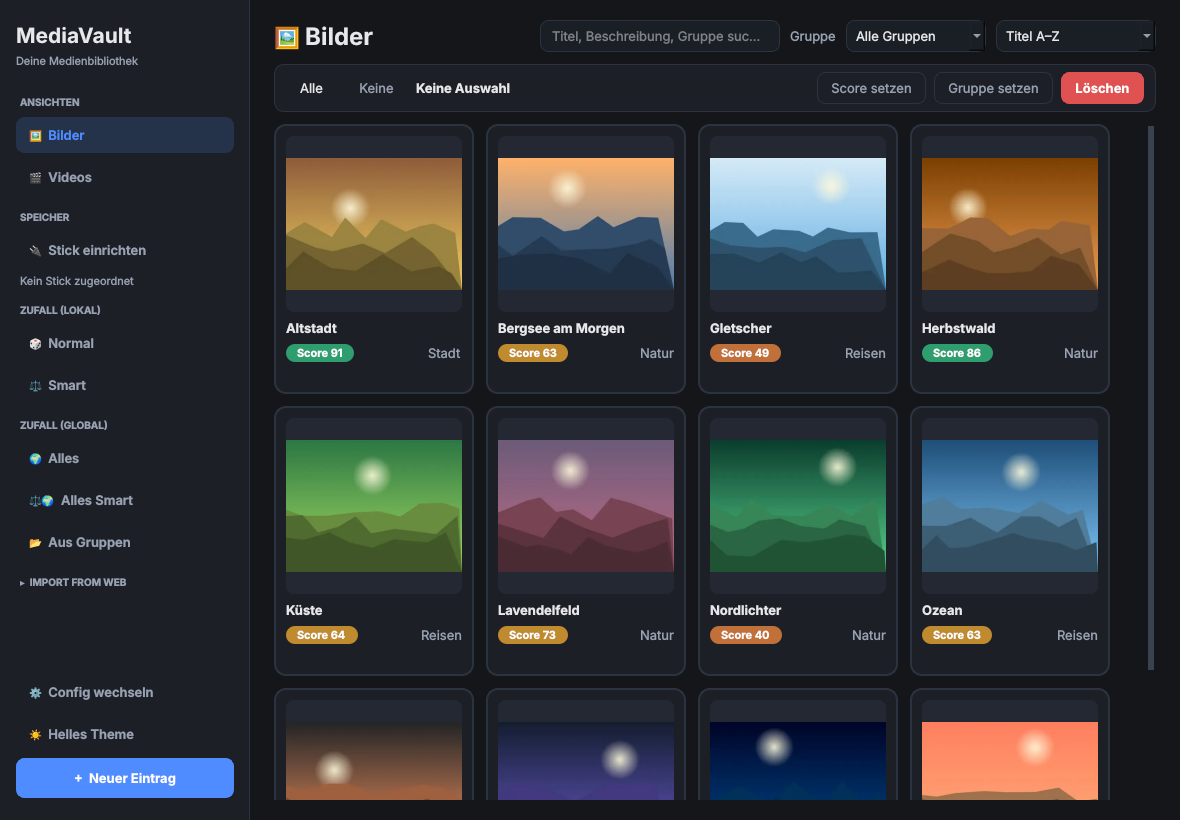
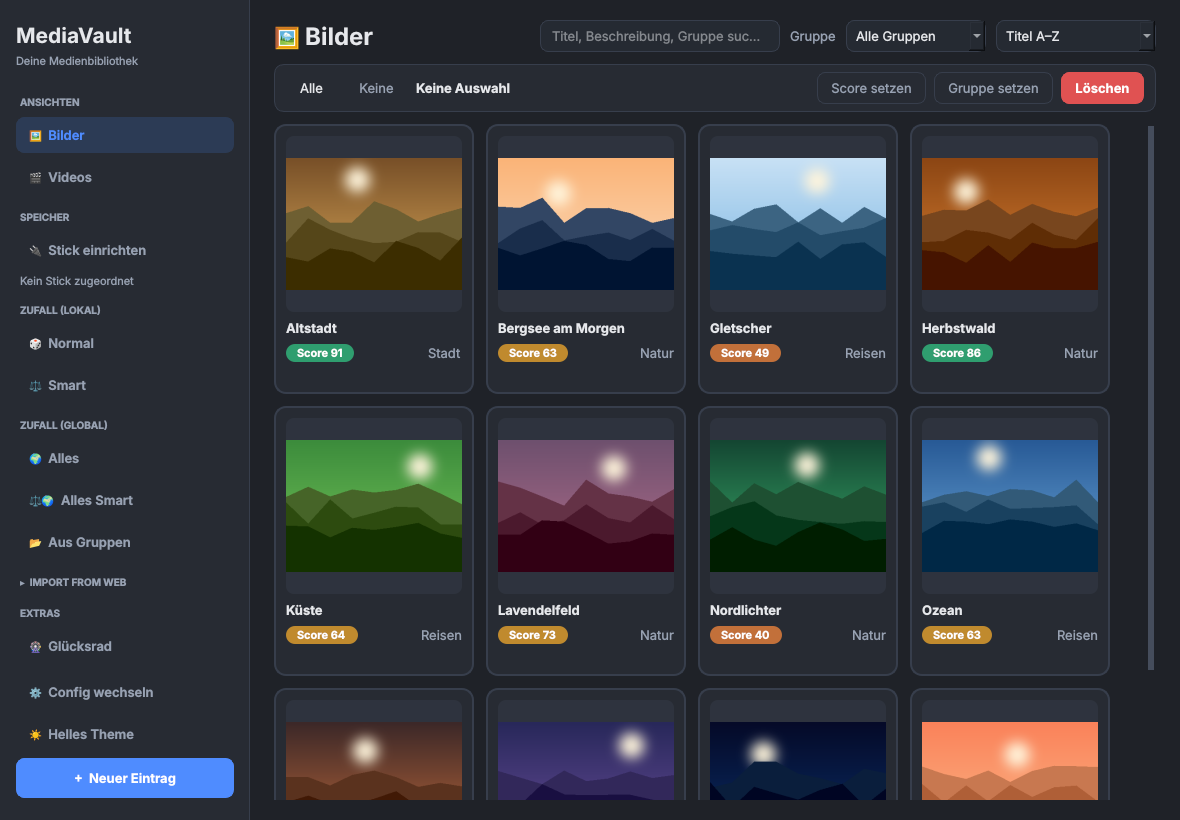
Sidebar wieder heller als die Hauptfläche, README-Screenshot aktualisiert
Sidebar nutzt wieder die Flächenfarbe (surface) wie im alten
README-Bild; WA_StyledBackground bleibt, damit sie gemalt wird.
Neuer Screenshot zeigt das hellere Dark-Theme und das Glücksrad.

Claude-Session: https://claude.ai/code/session_01V3p6qUPYyEA5Zf4tXi4khQ

diff --git a/mediavault/gui/theme.py b/mediavault/gui/theme.py
@@ -16,7 +16,6 @@ FONT_FAMILIES = ("Segoe UI", "Noto Sans", "Ubuntu", "Cantarell", "DejaVu Sans")
 PALETTES: dict[str, dict[str, str]] = {
     "dark": {
         "bg": "#1f2228",
-        "sidebar_bg": "#16181c",
         "surface": "#272b33",
         "surface_alt": "#2e333e",
         "hover": "#363d4b",
@@ -42,7 +41,6 @@ PALETTES: dict[str, dict[str, str]] = {
     },
     "light": {
         "bg": "#f4f6fa",
-        "sidebar_bg": "#f4f6fa",
         "surface": "#ffffff",
         "surface_alt": "#eef1f6",
         "hover": "#e8ecf2",
@@ -97,7 +95,7 @@ QWidget {
 }
 
 QWidget#Sidebar {
-    background-color: $sidebar_bg;
+    background-color: $surface;
     border-right: 1px solid $border;
 }
 

diff --git a/README.md b/README.md
@@ -2,7 +2,7 @@
 
 Ein Desktop-Tool zum Verwalten, Bewerten und Durchstöbern von Medien (Bilder und Videos) – mit Bewertungssystem, Zufallsauswahl und Batch-Funktionen.
 
-![MediaVault-Hauptfenster im dunklen Theme mit Bildkacheln, Scores und Gruppen](docs/screenshots/main_window.png)
+![MediaVault-Hauptfenster im dunklen Theme mit Seitenleiste, Bildkacheln, Scores und Gruppen](docs/screenshots/main_window.png)
 
 ## Überblick
 
@@ -59,7 +59,7 @@ mediavault/
     ├── sidebar.py     # Seitenleiste mit Navigation und Statusanzeigen
     ├── card_grid.py   # Kachelraster, Auswahl, Vorschau-Cache
     ├── selection.py   # Auswahlrechteck mit Auto-Scroll
-    ├── widgets.py     # Medienkacheln
+    ├── widgets.py     # Medienkacheln, Button- und Label-Helfer
     ├── collapsible.py # Einklappbare Seitenleisten-Sektion
     ├── folder_sync.py # Ordner-Sync mit Vorschau und Import
     ├── rule34_import.py # rule34: Posts holen, auswählen, einreihen
